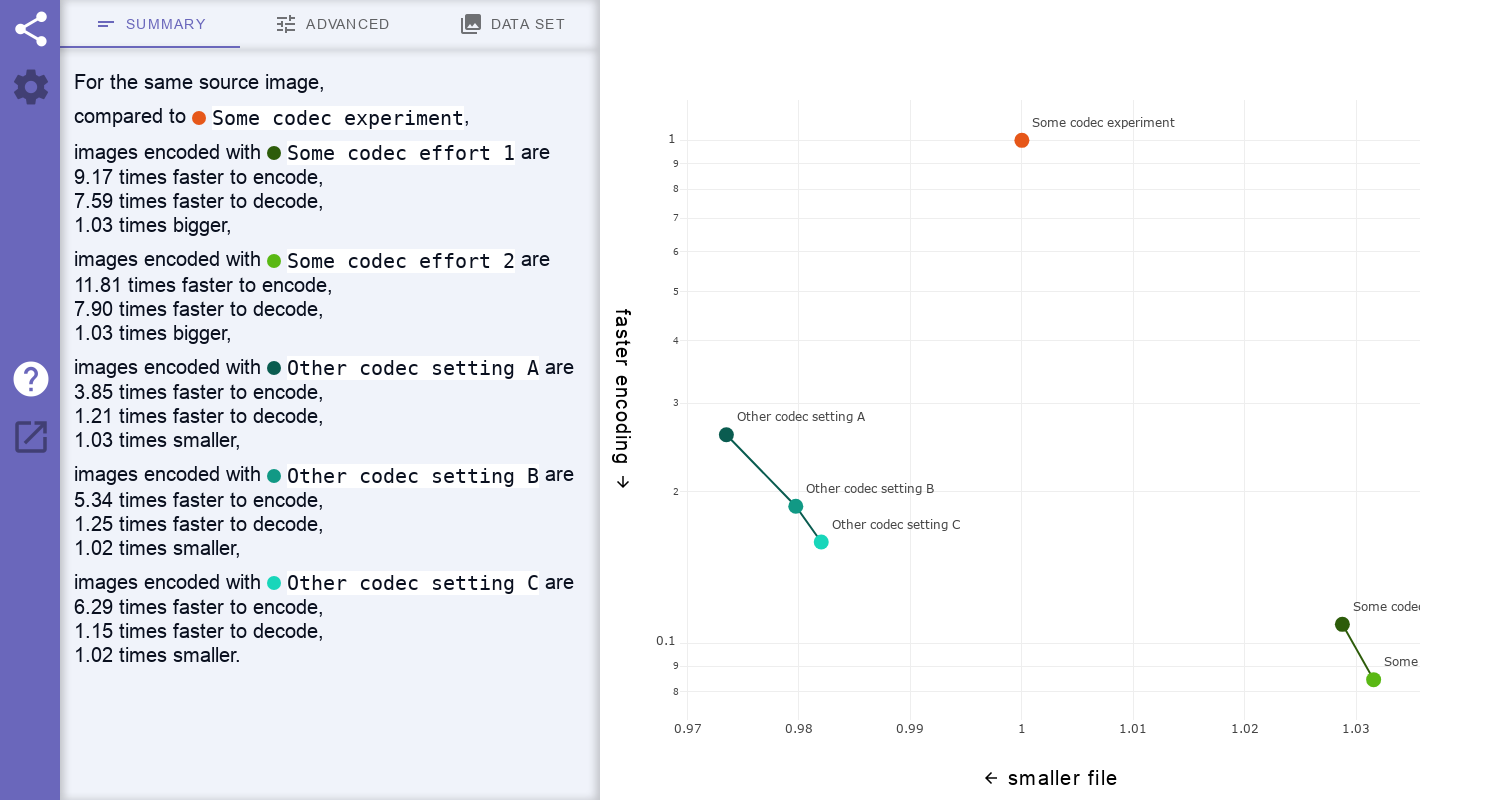
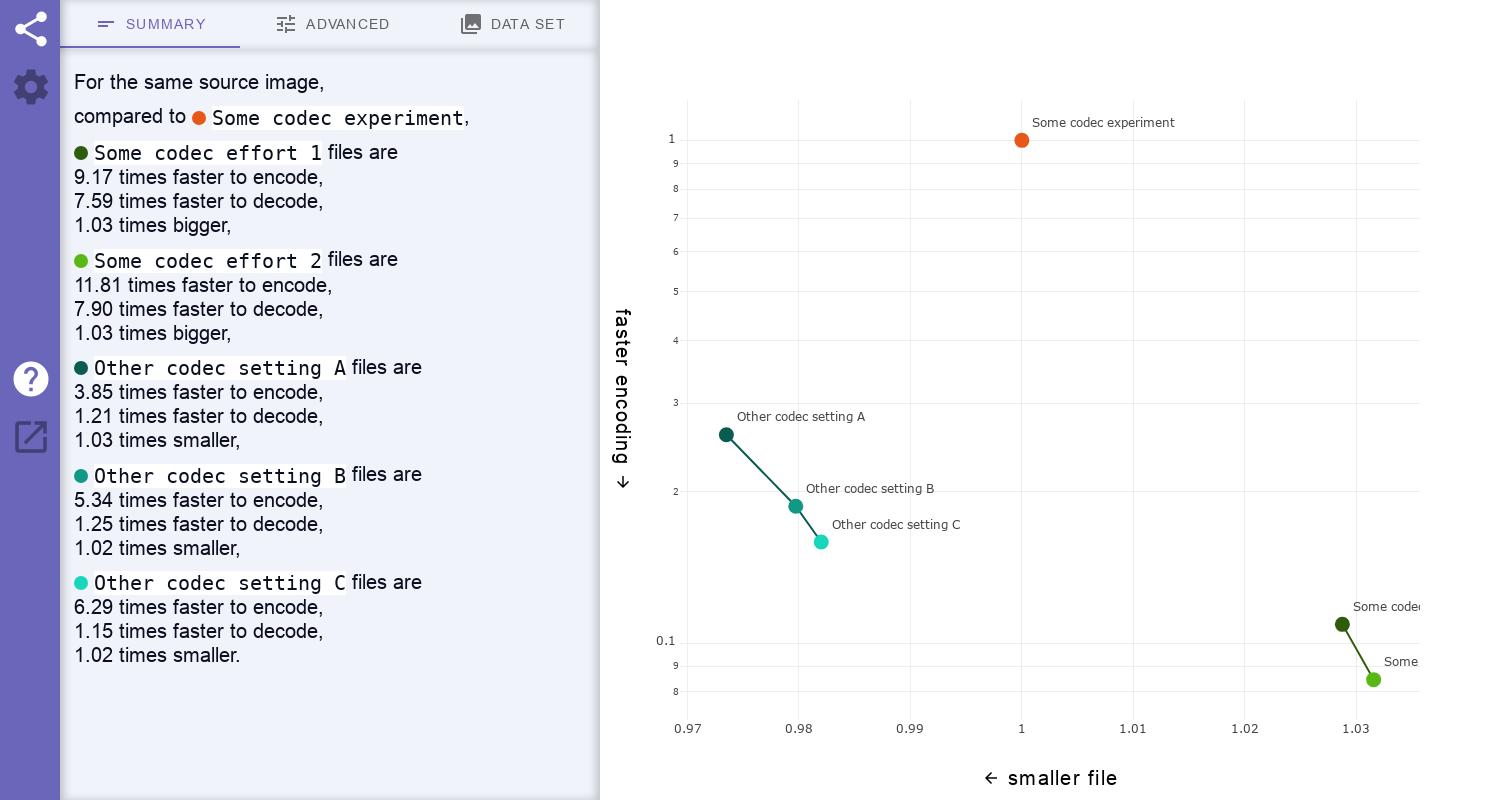
Show Web bpp filter as enabled (#33)

diff --git a/src/filter_ranges.ts b/src/filter_ranges.ts
@@ -39,29 +39,47 @@ export const BUCKET_FILTER_MAX_INCLUSIVE = 3;
  */
 export abstract class FieldFilterRanges extends FieldFilter {
   public readonly buckets: FieldFilterRangesBucket[];
-  public readonly crossBucketMin: number;
-  public readonly crossBucketMax: number;
+  public readonly bucketsUnion: FieldFilterRangesBucket;
+  public readonly bucketsIntersection: FieldFilterRangesBucket;
   constructor(
       public readonly otherFieldIndex: number,
       public readonly otherFieldDisplayName: string) {
     super();
     this.buckets = this.getBuckets();
-    this.crossBucketMin = this.buckets.reduce(
-        (prev, curr) => prev[BUCKET_FILTER_MIN_INCLUSIVE] <
-                curr[BUCKET_FILTER_MIN_INCLUSIVE] ?
-            prev :
-            curr)[BUCKET_FILTER_MIN_INCLUSIVE];
-    this.crossBucketMax = this.buckets.reduce(
-        (prev, curr) => prev[BUCKET_FILTER_MAX_INCLUSIVE] >
-                curr[BUCKET_FILTER_MAX_INCLUSIVE] ?
-            prev :
-            curr)[BUCKET_FILTER_MAX_INCLUSIVE];
+    let minBucketMin = this.buckets[0][BUCKET_MIN_INCLUSIVE];
+    let maxBucketMax = this.buckets[0][BUCKET_MAX_EXCLUSIVE];
+    let minBucketFilterMin = this.buckets[0][BUCKET_FILTER_MIN_INCLUSIVE];
+    let maxBucketFilterMax = this.buckets[0][BUCKET_FILTER_MAX_INCLUSIVE];
+    let maxBucketFilterMin = this.buckets[0][BUCKET_FILTER_MIN_INCLUSIVE];
+    let minBucketFilterMax = this.buckets[0][BUCKET_FILTER_MAX_INCLUSIVE];
+    for (const bucket of this.buckets) {
+      minBucketMin = Math.min(minBucketMin, bucket[BUCKET_MIN_INCLUSIVE]);
+      maxBucketMax = Math.max(maxBucketMax, bucket[BUCKET_MAX_EXCLUSIVE]);
+      minBucketFilterMin =
+          Math.min(minBucketFilterMin, bucket[BUCKET_FILTER_MIN_INCLUSIVE]);
+      maxBucketFilterMax =
+          Math.max(maxBucketFilterMax, bucket[BUCKET_FILTER_MAX_INCLUSIVE]);
+      maxBucketFilterMin =
+          Math.max(maxBucketFilterMin, bucket[BUCKET_FILTER_MIN_INCLUSIVE]);
+      minBucketFilterMax =
+          Math.min(minBucketFilterMax, bucket[BUCKET_FILTER_MAX_INCLUSIVE]);
+    }
+    this.bucketsUnion =
+        [minBucketMin, maxBucketMax, minBucketFilterMin, maxBucketFilterMax];
+    this.bucketsIntersection =
+        [minBucketMin, maxBucketMax, maxBucketFilterMin, minBucketFilterMax];
   }
 
   actuallyFiltersPointsOut(field: Field) {
+    const allPointsAreInAllBuckets =
+        this.bucketsIntersection[BUCKET_FILTER_MIN_INCLUSIVE] <=
+            field.rangeStart &&
+        field.rangeEnd <= this.bucketsIntersection[BUCKET_FILTER_MAX_INCLUSIVE];
+    if (allPointsAreInAllBuckets) {
+      return false;
+    }
     // Imprecise but faster than checking all values.
-    return this.crossBucketMin > field.rangeStart ||
-        this.crossBucketMax < field.rangeEnd;
+    return true;
   }
 
   protected abstract getBuckets(): FieldFilterRangesBucket[];
@@ -95,12 +113,12 @@ export abstract class FieldFilterRanges extends FieldFilter {
   }
 
   toString(field: Field, short: boolean) {
+    const min = this.bucketsUnion[BUCKET_FILTER_MIN_INCLUSIVE].toFixed(1);
+    const max = this.bucketsUnion[BUCKET_FILTER_MAX_INCLUSIVE].toFixed(1);
     if (short) {
-      return '[' + this.crossBucketMin.toFixed(1) + ':' +
-          this.crossBucketMax.toFixed(1) + ']';
+      return '[' + min + ':' + max + ']';
     } else {
-      return `${field.displayName} limited to [${
-          this.crossBucketMin.toFixed(1)}:${this.crossBucketMax.toFixed(1)}]`;
+      return `${field.displayName} limited to [${min}:${max}]`;
     }
   }
 }
@@ -117,6 +135,14 @@ export abstract class FieldFilterWebBpp extends FieldFilterRanges {
     return megapixels <= 1 ?
         Math.max(0, Math.min(Math.ceil(megapixels * 10) - 1, 9)) :
         Math.max(10, Math.min(Math.ceil(megapixels) + 8, 22));
+  }
+
+  override toString(field: Field, short: boolean) {
+    if (short) {
+      return '{Web values}';
+    } else {
+      return `${field.displayName} limited to Web values`;
+    }
   }
 }
 

diff --git a/src/state.ts b/src/state.ts
@@ -16,10 +16,10 @@ import {createGroups} from './batch_groups';
 import {BatchSelection} from './batch_selection';
 import {setColors} from './color_setter';
 import {CommonField, createCommonFields} from './common_field';
-import {Batch, Field, FieldId} from './entry';
+import {Batch, DISTORTION_METRIC_FIELD_IDS, Field, FieldId} from './entry';
 import {dispatch, EventType, listen} from './events';
 import {enableDefaultFilters} from './filter';
-import {createMatchers, enableDefaultMatchers, FieldMatcher, getDataPointsSymmetric, isLossless} from './matcher';
+import {createMatchers, enableDefaultMatchers, FieldMatcher, getDataPointsSymmetric} from './matcher';
 import {computeHistogram, computeStats, createMetrics, enableDefaultMetrics, FieldMetric, selectPlotMetrics} from './metric';
 
 /** The root data object containing the full state. */
@@ -78,6 +78,9 @@ export class State {
   /** If true, each row is shown in the tables. NOT stored in URL params. */
   showAllRows = false;
 
+  /** Deduced during initialize(). */
+  batchesAreLikelyLossless = false;
+
   /** Sets all other fields up based on the contents of the batches field. */
   initialize() {
     if (this.batches.length === 0) return;
@@ -101,9 +104,30 @@ export class State {
 
     this.commonFields = createCommonFields(this.batches);
 
+    // If there is any input quality setting or distortion metric with multiple
+    // values or with a value that looks not lossless, then the batch is likely
+    // containing images compressed with loss.
+    const anyBatchIsLossy =
+        this.batches.some(batch => batch.fields.some(field => {
+          if (field.id === FieldId.QUALITY) {
+            // An input quality setting in [0:100[ is likely lossy.
+            return field.isNumber &&
+                (field.uniqueValuesArray.length > 1 ||
+                 (field.rangeStart >= 0 && field.rangeStart < 100));
+          }
+          if (DISTORTION_METRIC_FIELD_IDS.includes(field.id)) {
+            // A distortion metric with decimal values is likely lossy.
+            return field.isNumber &&
+                (field.uniqueValuesArray.length > 1 || !field.isInteger);
+          }
+          return false;
+        }));
+    this.batchesAreLikelyLossless = !anyBatchIsLossy;
+
     this.matchers = createMatchers(this.batches);
     if (this.matchers.filter((matcher) => matcher.enabled).length === 0) {
-      enableDefaultMatchers(this.batches, this.matchers);
+      enableDefaultMatchers(
+          this.batches, this.batchesAreLikelyLossless, this.matchers);
     }
     this.metrics = createMetrics(this.batches);
     if (this.metrics.filter((metric) => metric.enabled).length === 0) {
@@ -118,7 +142,7 @@ export class State {
 
     // Pick WebP at default speed if available, otherwise pick the first batch.
     const webpDefaultEffort =
-        isLossless(this.batches[0], this.matchers) ? '6' : '4';  // -z / -m flag
+        this.batchesAreLikelyLossless ? '6' : '4';  // -z / -m flag
     this.referenceBatchSelectionIndex = 0;
     for (let i = 0; i < this.batches.length; i++) {
       const codecName = this.batches[i].codec.toLowerCase();

diff --git a/src/matcher.ts b/src/matcher.ts
@@ -138,7 +138,8 @@ export function createMatchers(batches: Batch[]): FieldMatcher[] {
 
 /** Arbitrarily enables some matchers. */
 export function enableDefaultMatchers(
-    batches: Batch[], matchers: FieldMatcher[]) {
+    batches: Batch[], batchesAreLikelyLossless: boolean,
+    matchers: FieldMatcher[]) {
   const firstBatch = batches[0];
 
   // Comparing codec performance on different source images makes little sense.
@@ -150,21 +151,7 @@ export function enableDefaultMatchers(
     sourceImageMatcher.enabled = true;
   }
 
-  // Find distortion metrics suggesting that it is not a lossless comparison.
-  let isLossless = true;
-  for (const id of DISTORTION_METRIC_FIELD_IDS) {
-    const distortionMatcher = matchers.find(
-        (matcher) => firstBatch.fields[matcher.fieldIndices[0]].id === id);
-    if (distortionMatcher === undefined) continue;
-    const distortionField =
-        firstBatch.fields[distortionMatcher.fieldIndices[0]];
-    if (distortionField.isNumber &&
-        distortionField.uniqueValuesArray.length > 1) {
-      isLossless = false;
-      break;
-    }
-  }
-  if (isLossless) return;
+  if (batchesAreLikelyLossless) return;
 
   // To be somewhat fair, enable the distortion metrics that the compared codecs
   // usually optimize for.
@@ -232,19 +219,6 @@ export function enableDefaultMatchers(
       break;
     }
   }
-}
-
-/** Returns true if the input data sets are likely lossless. */
-export function isLossless(firstBatch: Batch, matchers: FieldMatcher[]) {
-  for (const matcher of matchers) {
-    if (matcher.enabled &&
-        DISTORTION_METRIC_FIELD_IDS.includes(
-            firstBatch.fields[matcher.fieldIndices[0]].id)) {
-      return false;
-    }
-  }
-  // Assume other batches to be lossless too.
-  return true;
 }
 
 /**

diff --git a/src/sentence_ui.ts b/src/sentence_ui.ts
@@ -49,7 +49,15 @@ export class SentenceUi extends LitElement {
     for (const batch of this.state.batches) {
       const field = batch.fields[matcher.fieldIndices[batch.index]];
       if (field.displayName === '') continue;
-      if (DISTORTION_METRIC_FIELD_IDS.includes(field.id)) {
+      if (field.id === FieldId.SOURCE_IMAGE_NAME) {
+        displayName = field.displayName;
+        if (this.state.batchesAreLikelyLossless) {
+          subName = 'encoded losslessly';
+        } else {
+          // There should be an enabled distortion-based matcher. No need to
+          // mention that the compression is lossy.
+        }
+      } else if (DISTORTION_METRIC_FIELD_IDS.includes(field.id)) {
         displayName = 'distortion';
         subName = field.displayName;
       } else {
@@ -179,10 +187,9 @@ export class SentenceUi extends LitElement {
         -1;
 
     return html`
-        <p>
-        images encoded with <batch-name-ui .batch=${batch} @click=${() => {
+        <p><batch-name-ui .batch=${batch} @click=${() => {
       dispatch(EventType.BATCH_INFO_REQUEST, {batchIndex: batch.index});
-    }}></batch-name-ui>
+    }}></batch-name-ui> files
         ${this.renderFilters(batchSelection)}
         ${this.state.showRelativeRatios ? 'are' : ''}
         ${this.state.metrics.map((metric: FieldMetric, metricIndex: number) => {

diff --git a/src/codec_compare.ts b/src/codec_compare.ts
@@ -245,7 +245,7 @@ export class CodecCompare extends LitElement {
           </p>
 
           <p id="credits">
-            Codec Compare version 0.5.9<br>
+            Codec Compare version 0.5.10<br>
             <a href="https://github.com/webmproject/codec-compare">
               Sources on GitHub
             </a>

diff --git a/CHANGELOG.md b/CHANGELOG.md
@@ -1,5 +1,13 @@
 # Changelog
 
+## v0.5.10
+
+- Display FieldFilterRanges as: enabled when some points could be filtered out,
+  instead of: disabled when all points could be included.
+- Simplify wording in the Summary tab.
+- Mention lossless in the Summary tab when assumed so by Codec-Compare.
+- Show Web bpp filter as "Web values" in the UI.
+
 ## v0.5.9
 
 - Fix reference arithmetic mean in match table. It was the mean of the filtered
